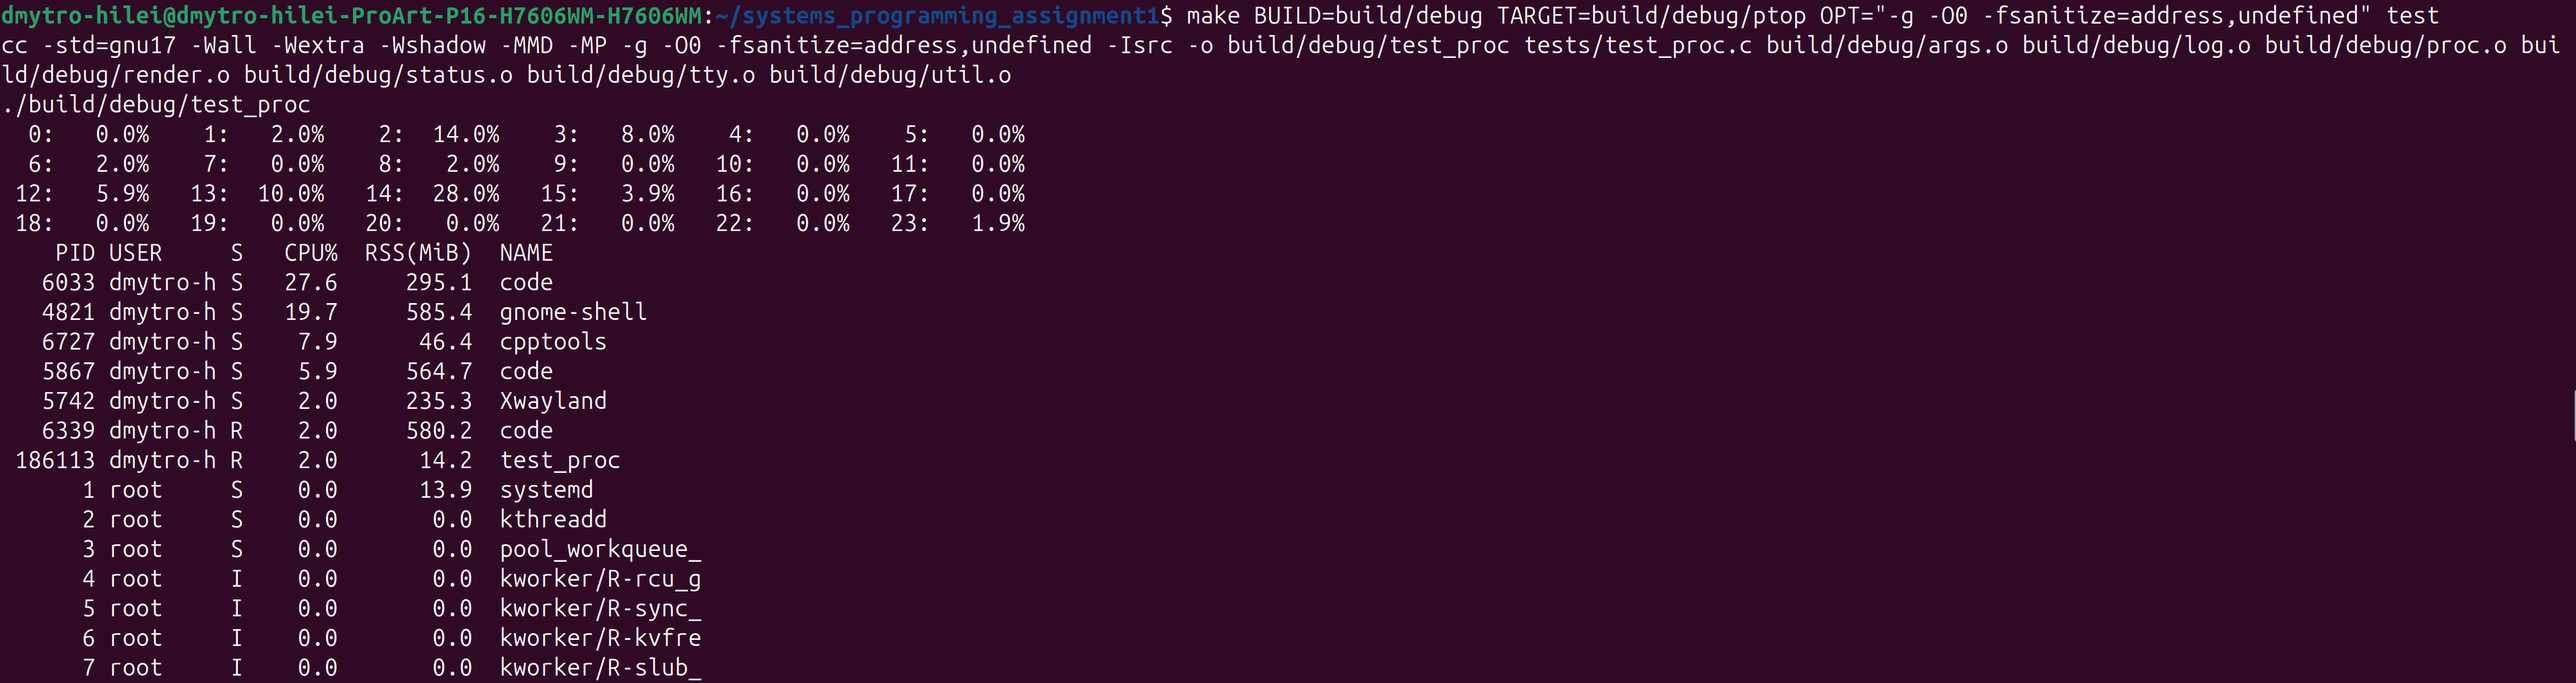
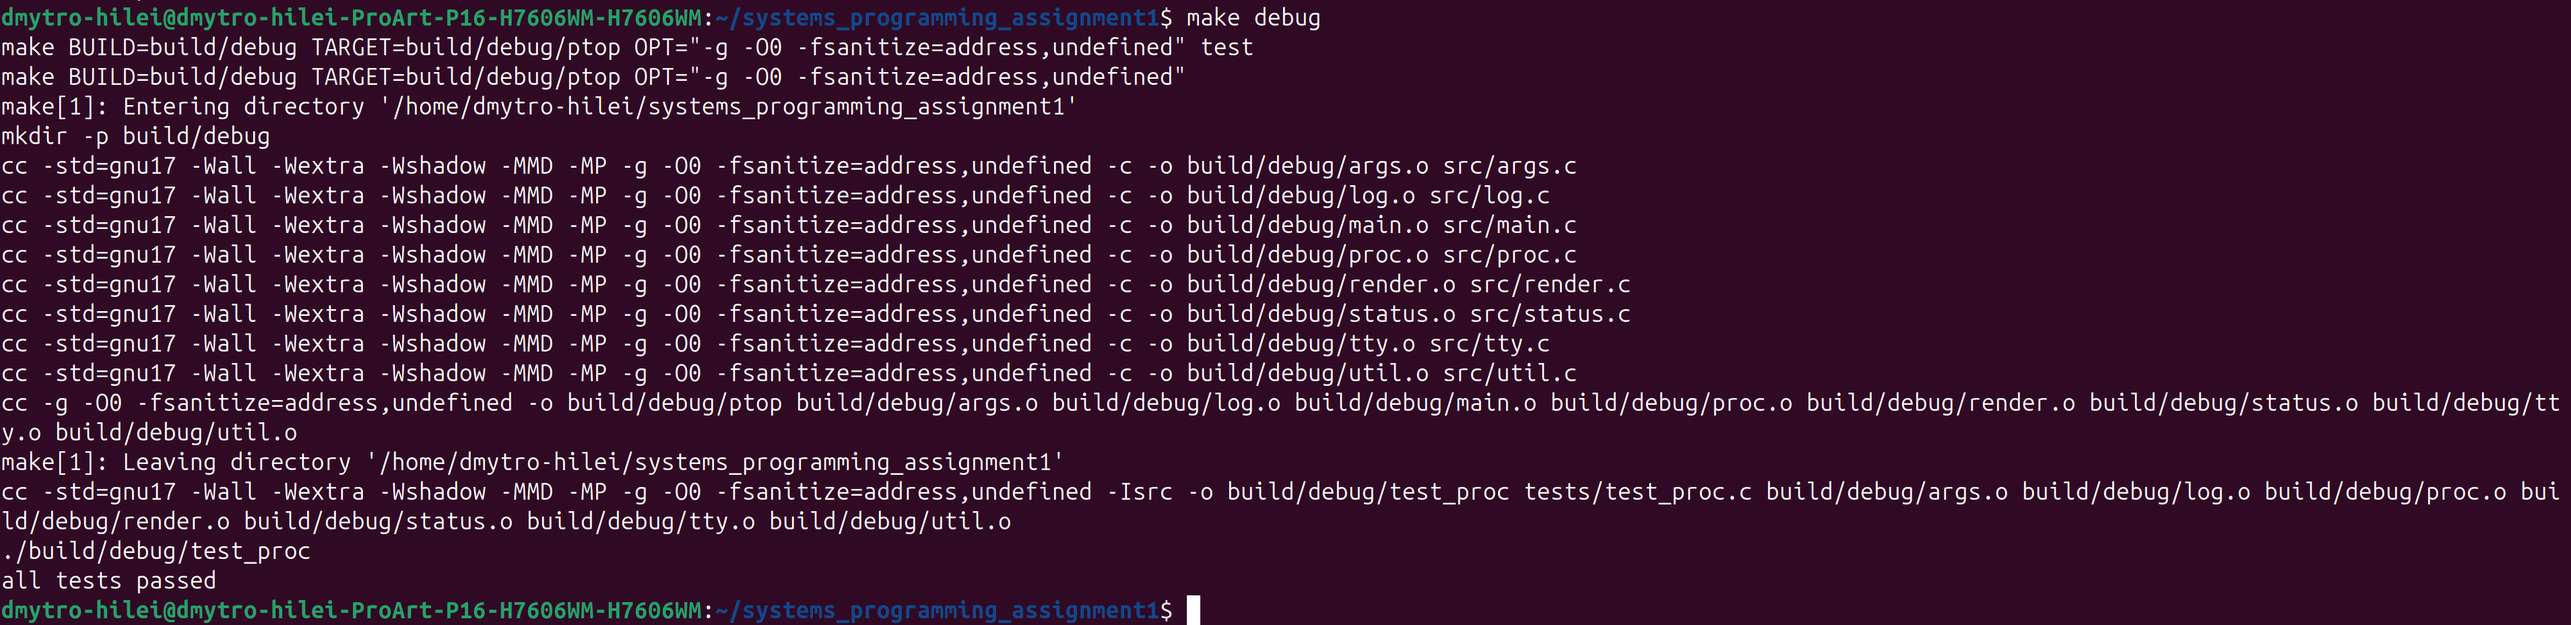
Added screenshots and fixed a typos

Changed region(s): [[0.0, 0.0, 1.0, 1.0]]

diff --git a/src/log.c b/src/log.c
@@ -23,8 +23,7 @@ static const char *level_word(enum ptop_log_level level) {
 
 // errnum == 0 means no "strerror" part
 
-static void log_write(enum ptop_log_level level, int errnum,
-                      const char *format, va_list ap) {
+static void log_write(enum ptop_log_level level, int errnum, const char *format, va_list ap) {
     if (level > current_log_level) {
         return; // Less important than the current level
     }

diff --git a/src/util.h b/src/util.h
@@ -1,8 +1,6 @@
 // SPDX-License-Identifier: MIT
 
-//small helpers that do not belong anywhere else
-
-// SPDX-License-Identifier: MIT
+// small helpers that do not belong anywhere else
 
 #ifndef UTIL_H
 #define UTIL_H
@@ -19,4 +17,3 @@ void sleep_ms(long ms);
 double now_sec(void);
 
 #endif // UTIL_H
-

diff --git a/README.md b/README.md
@@ -27,6 +27,8 @@ that uses more than one core can show more than 100%
 
 ![make test](docs/screenshots/03-make-test.png)
 
+![make format, then make clean && make && make test](docs/screenshots/20-make-format.png)
+
 ### Running ptop
 
 | Command | What it does |
